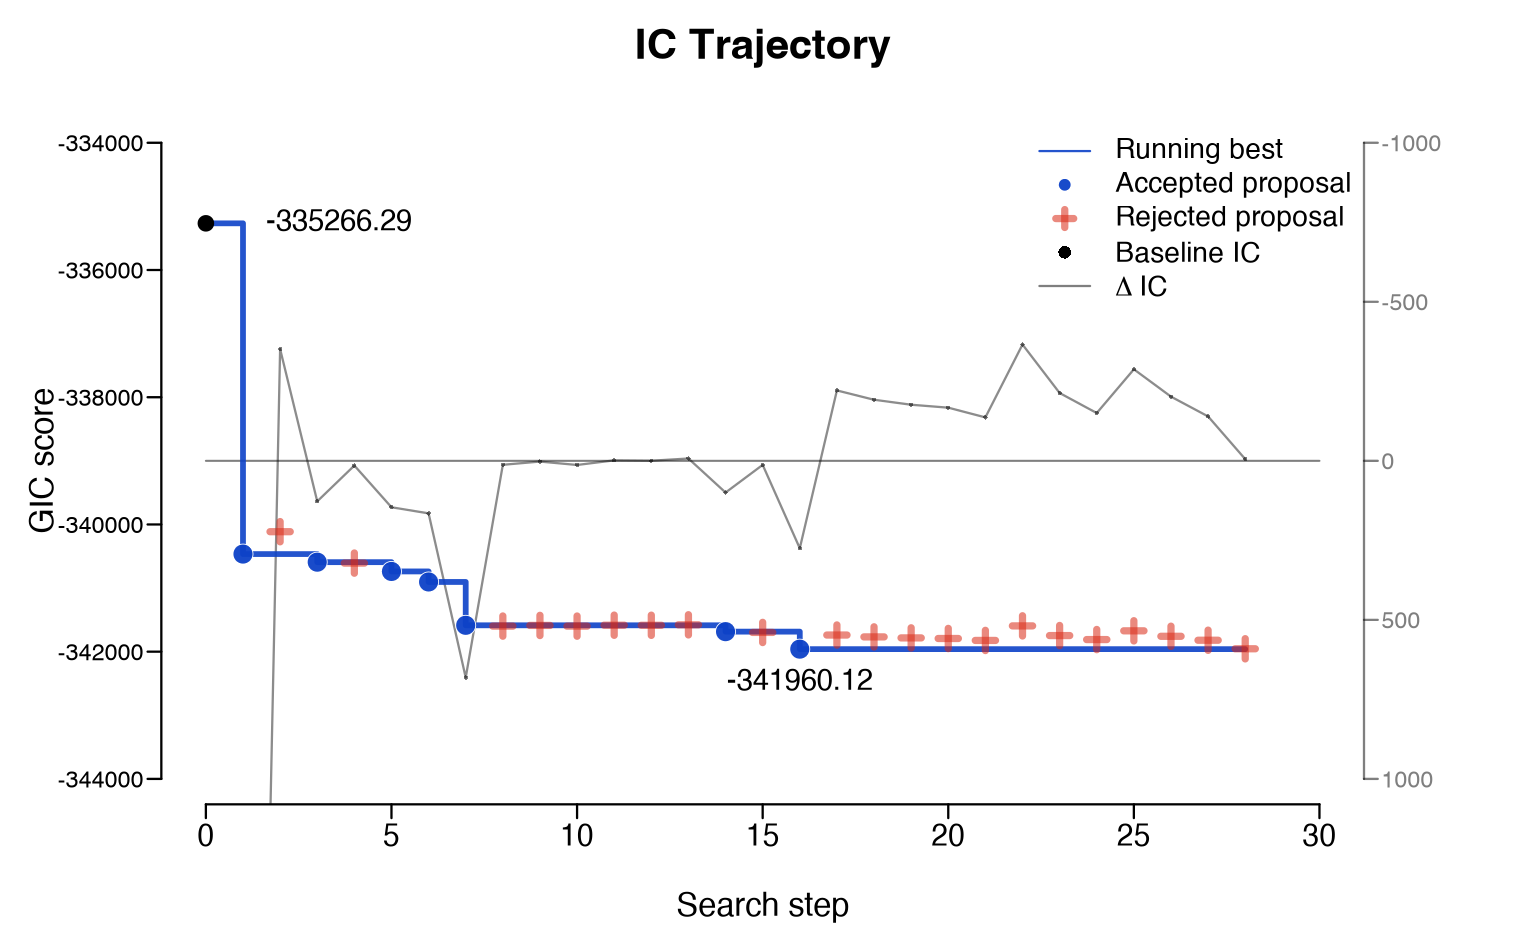
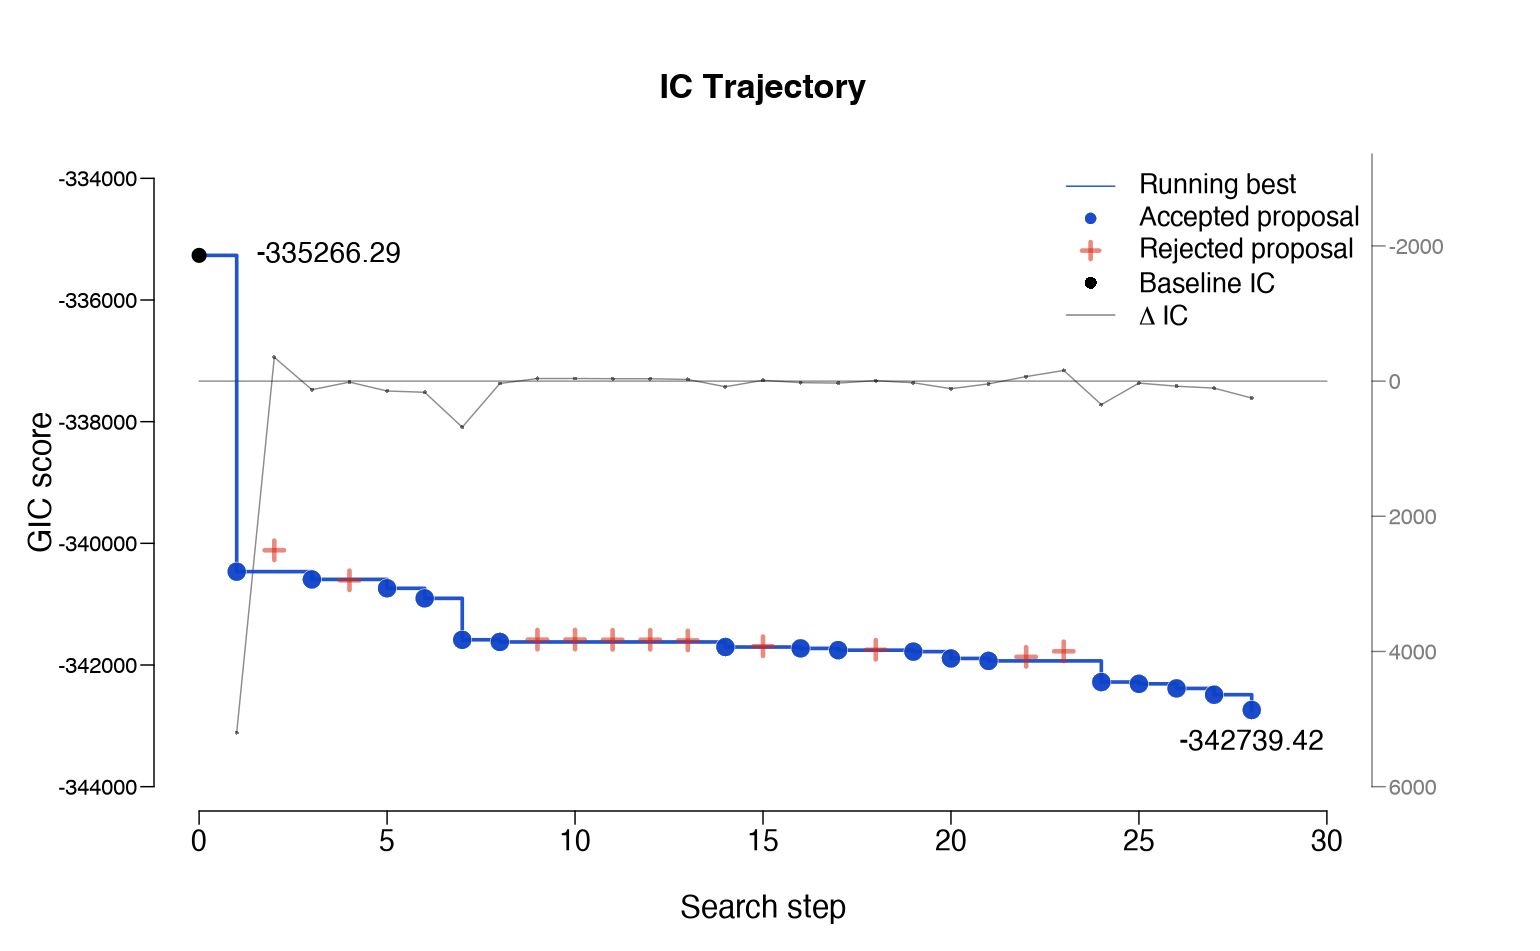
Refresh cached jaw-shape figures and fix console plot padding

diff --git a/NEWS.md b/NEWS.md
@@ -1,5 +1,7 @@
 # bifrost 0.2.1
 
+* The console IC-history plot now pads both ends of the iteration axis so
+  baseline and final points do not overwrite its frame at typical text widths.
 * Progress refreshes every 100 ms. Spinner frames follow elapsed time so
   progress-bar updates do not reset the animation's timing.
 * Searches now default to `start_strategy = "legacy_1.2.1"`: data-dependent
